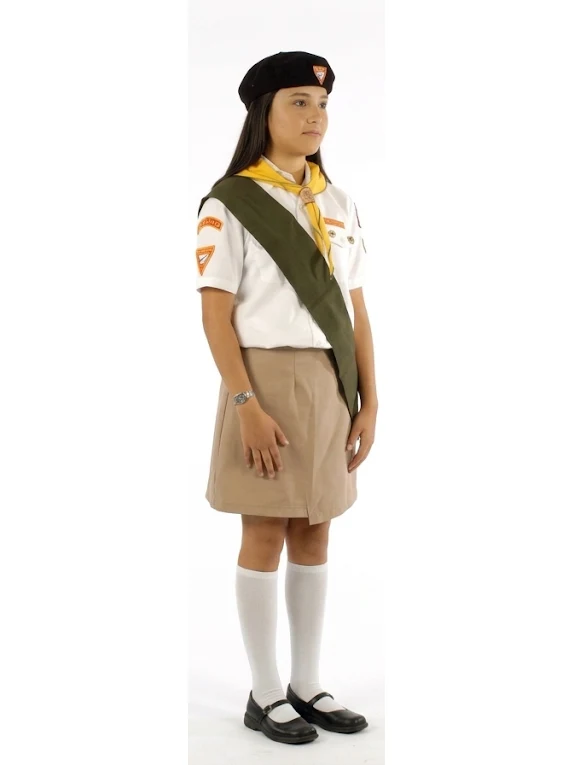
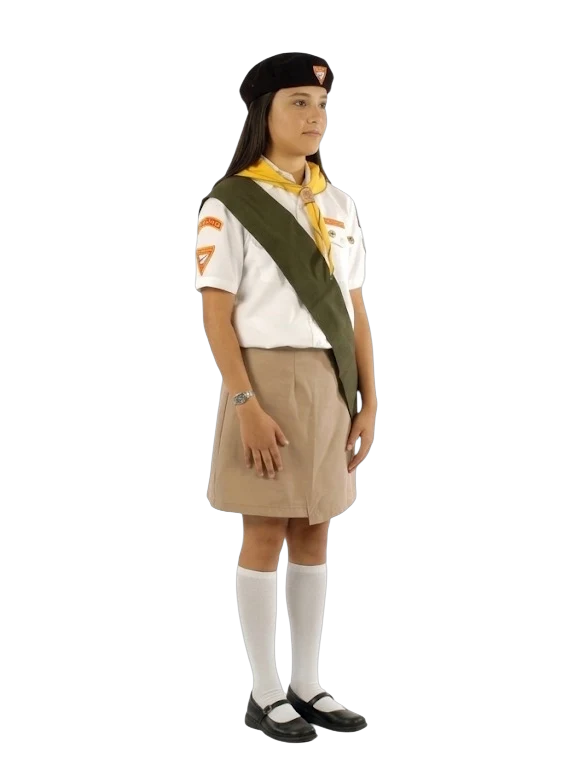
arma-tu-uniforme: niña con fotos sin fondo, fundido correcto con transparencia
Las fotos recortadas quedan sobre el escenario del visor con una sombra
de piso suave. El lienzo se limpia en cada cuadro y el fundido suma
(1-t)A + tB con 'lighter', así no se acumulan siluetas.

diff --git a/src/features/arma-tu-uniforme/components/visor/LienzoFrame.tsx b/src/features/arma-tu-uniforme/components/visor/LienzoFrame.tsx
@@ -25,12 +25,19 @@ export function LienzoFrame({ base, siguiente, mezcla }: Props) {
       c.width = fondo.naturalWidth;
       c.height = fondo.naturalHeight;
     }
-    ctx.globalAlpha = 1;
-    ctx.drawImage(fondo, 0, 0, c.width, c.height);
+    // Se limpia siempre: con fotos de fondo transparente las siluetas se acumularían
+    ctx.clearRect(0, 0, c.width, c.height);
     if (siguiente && mezcla > 0 && mezcla < 1) {
+      // (1−t)·A + t·B exacto, también con transparencia: "lighter" suma los colores premultiplicados
+      ctx.globalAlpha = 1 - mezcla;
+      ctx.drawImage(fondo, 0, 0, c.width, c.height);
+      ctx.globalCompositeOperation = "lighter";
       ctx.globalAlpha = mezcla;
       ctx.drawImage(siguiente, 0, 0, c.width, c.height);
+      ctx.globalCompositeOperation = "source-over";
       ctx.globalAlpha = 1;
+    } else {
+      ctx.drawImage(fondo, 0, 0, c.width, c.height);
     }
   }, [base, siguiente, mezcla]);
 

diff --git a/src/features/arma-tu-uniforme/components/visor/VisorSecuencia.tsx b/src/features/arma-tu-uniforme/components/visor/VisorSecuencia.tsx
@@ -34,6 +34,8 @@ export function VisorSecuencia({ onSeleccionar, ...opciones }: Props) {
       >
         <div className="absolute inset-0 overflow-hidden rounded-[2rem] bg-[#f4f6f4]">
           <div className={CAPA} style={escala}>
+            {/* Sombra de piso: con fotos sin fondo el uniforme no queda flotando */}
+            <div aria-hidden className="absolute bottom-[3.5%] left-1/2 h-[3%] w-[42%] -translate-x-1/2 rounded-[50%] bg-[#1b1e1c]/15 blur-md" />
             <LienzoFrame {...lienzo} />
             {EDITOR && <EditorHotspots frame={frame} />}
           </div>
